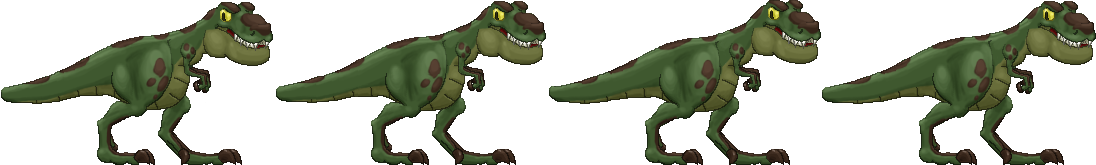
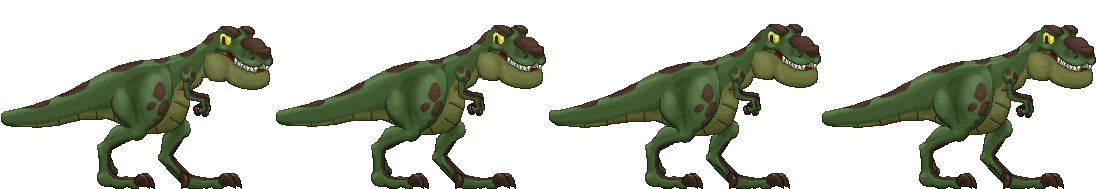
contrasaurus turns to face the direction he throws his weapon. Also realigned the idle animations

diff --git a/contrasaurus/src/javascripts/contrasaurus/projectiles/thrown_item.js b/contrasaurus/src/javascripts/contrasaurus/projectiles/thrown_item.js
@@ -5,10 +5,20 @@ function ThrownItem(I) {
   // make csour turn if you throw it behind you
 
   var position = dino.position();
+  var levelPosition = currentLevel.position();
+
+  var throwAngle = Point.direction(position, target.add(levelPosition));
+
+  if ((Math.cos(throwAngle) < 0 && dino.xVelocity() >= 0) || (Math.cos(throwAngle) >= 0 && dino.xVelocity() < 0)) {
+    var dinoVelocity = dino.xVelocity();
+    dino.xVelocity(-1 * dinoVelocity);
+  }
+
+  var throwSpeed = Point.distance(position, target.add(levelPosition)) / 10;
 
   $.reverseMerge(I, {
-    speed: 20,
-    theta: Point.direction(position, target.add(currentLevel.position())),
+    speed: throwSpeed,
+    theta: throwAngle,
     weaponName: "battleAxe"
   });
 

diff --git a/contrasaurus/src/javascripts/contrasaurus/dinosaur.js b/contrasaurus/src/javascripts/contrasaurus/dinosaur.js
@@ -279,6 +279,10 @@ function Dinosaur() {
           I.xVelocity = 0;
         }
 
+        if(I.xVelocity != 0) {
+          lastDirection = I.xVelocity;
+        }
+
         currentHealth = I.health;
       }
     },
@@ -291,9 +295,6 @@ function Dinosaur() {
       },
       update: function(levelPosition) {
         // Choose correct animation and hitFrames
-        if(I.xVelocity != 0) {
-          lastDirection = I.xVelocity;
-        }
 
         if(biteCounter > 0) {
           biteCounter--;
